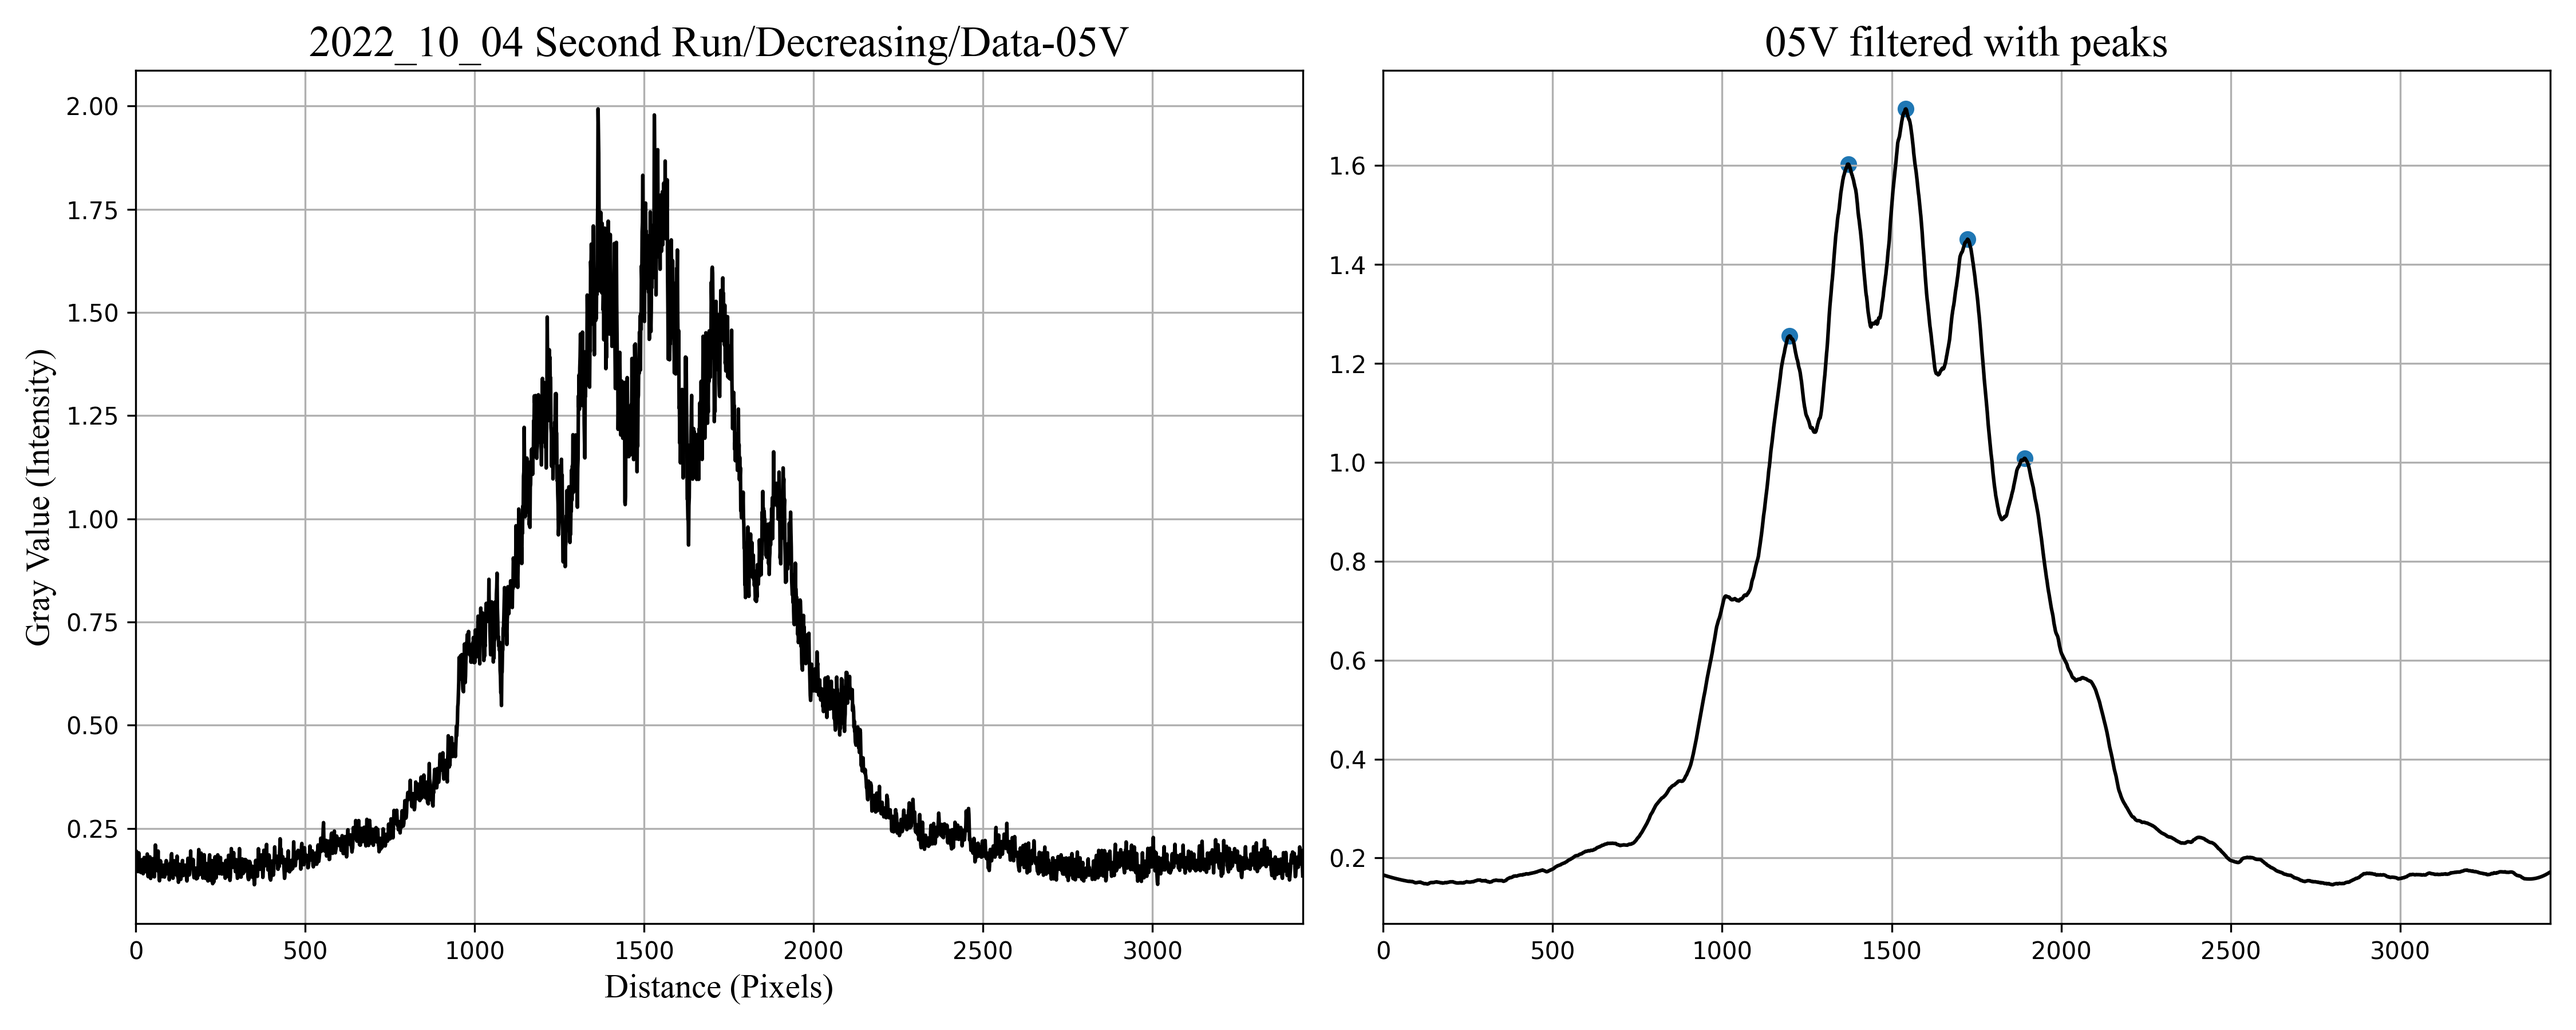
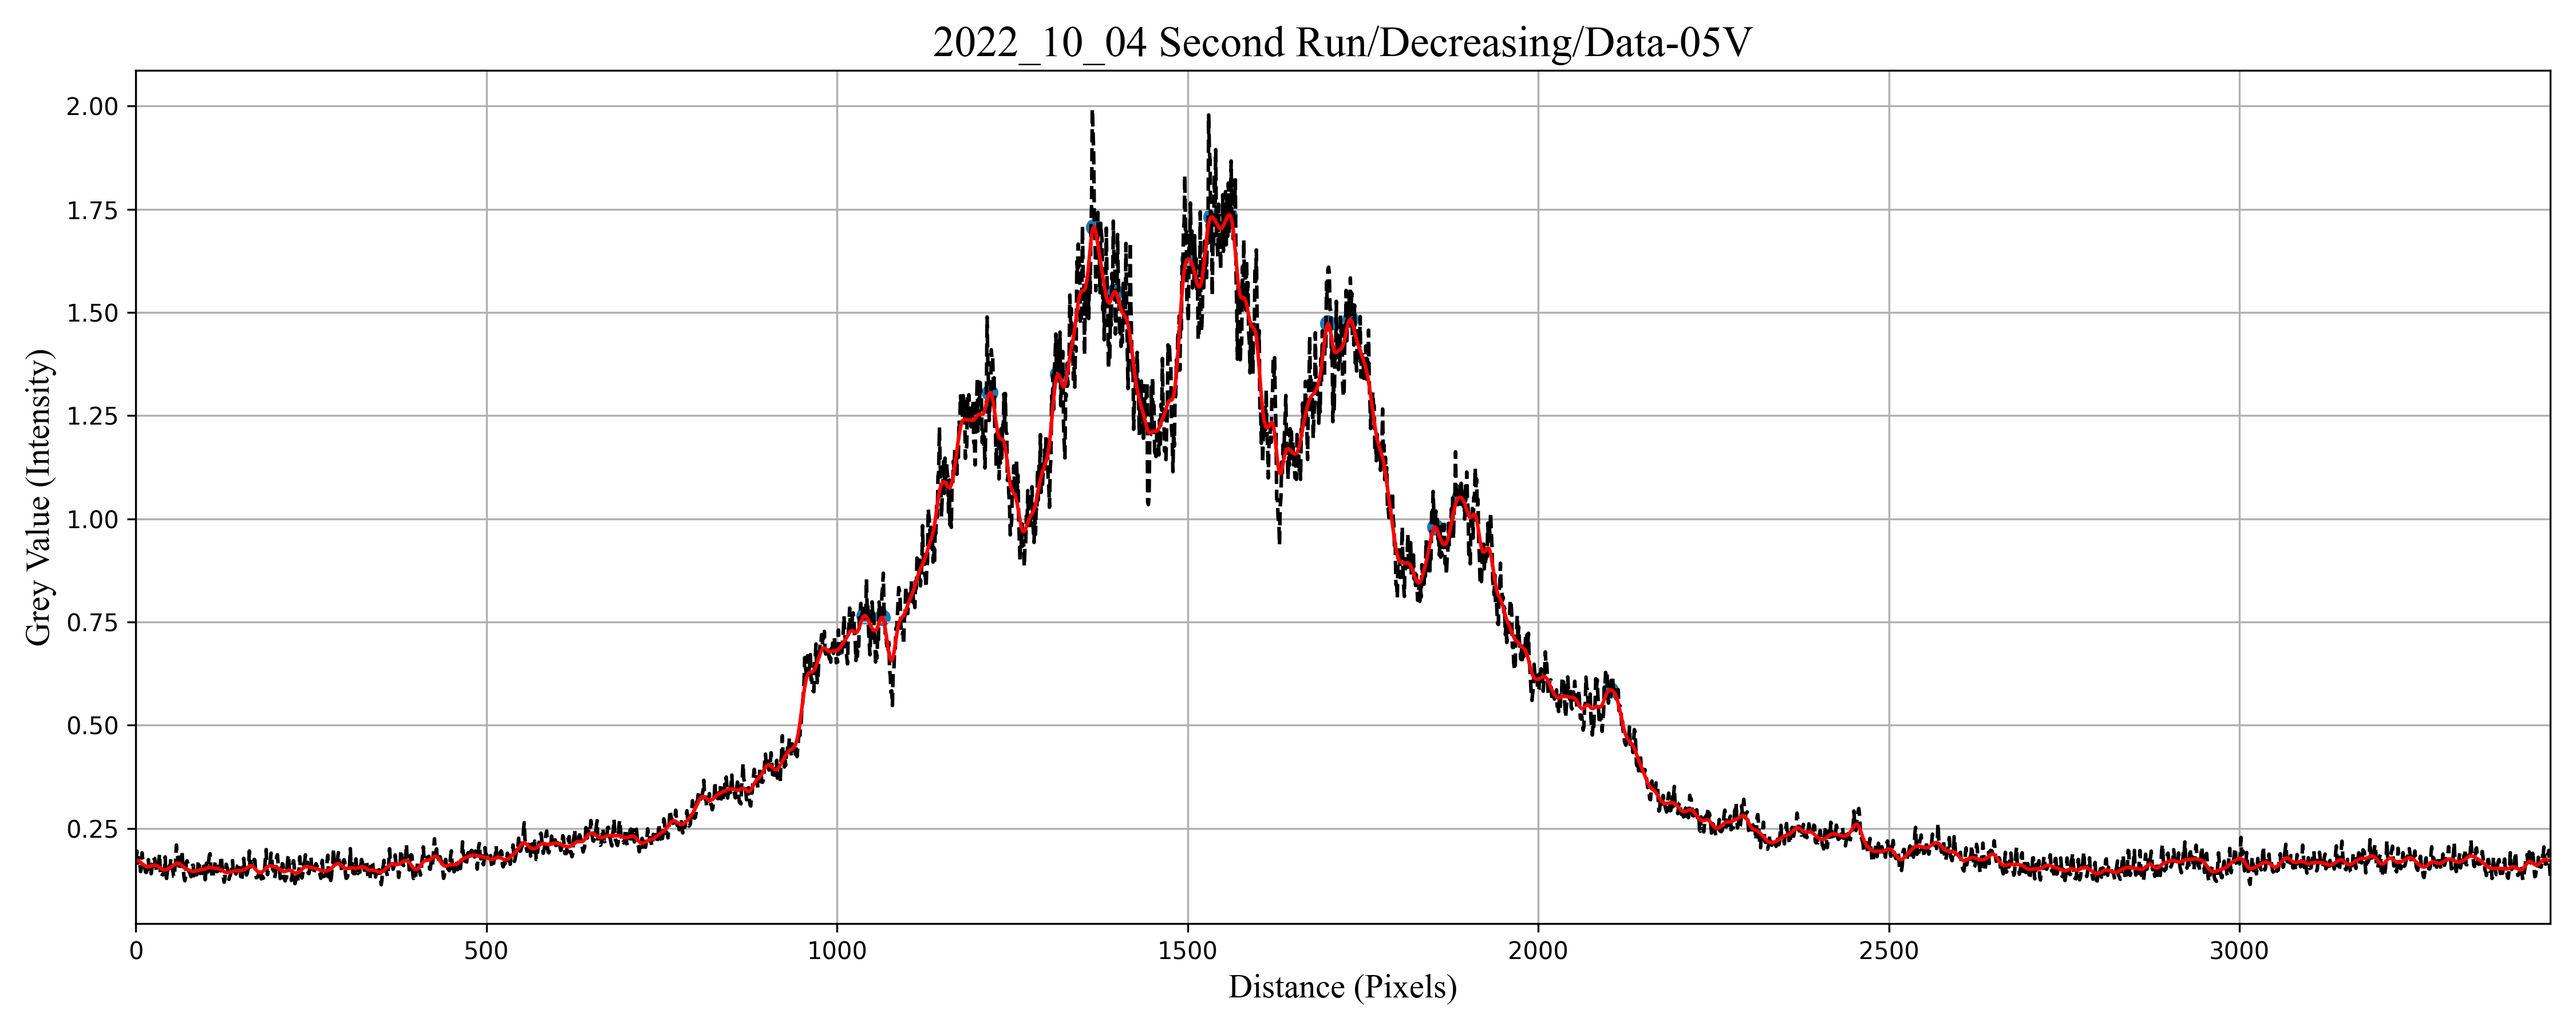
Gaussian Convolution

diff --git a/TVHolography.py b/TVHolography.py
@@ -24,22 +24,22 @@ Y_VARIABLE = 'Grey Value (Intensity)'
 
 def draw_plot(title, data, savgol_parameter, filename,
               save_folder, peak_prominence):
-    fig, axs = plt.subplots(1, 2)
+    fig, axs = plt.subplots(1, 1)
     fig.set_size_inches(15, 6)
 
-    axs[0].set_xlabel("Distance (Pixels)", fontsize=14,
+    axs.set_xlabel("Distance (Pixels)", fontsize=14,
                       fontfamily='times new roman')
-    axs[0].set_ylabel(Y_VARIABLE, fontsize=14, fontfamily='times new roman')
-    axs[0].set_title(filename[: -1] + "-" + title + "V", fontsize=18,
+    axs.set_ylabel(Y_VARIABLE, fontsize=14, fontfamily='times new roman')
+    axs.set_title(filename[: -1] + "-" + title + "V", fontsize=18,
                      fontfamily='times new roman')
-    axs[1].set_title(title + 'V filtered with peaks', fontsize=18,
-                     fontfamily='times new roman')
+    # axs[1].set_title(title + 'V filtered with peaks', fontsize=18,
+    #                  fontfamily='times new roman')
 
-    axs[0].plot(data[:, 0], data[:, 1], 'k')
-    peaks, w = find_peaks(data, savgol_parameter, peak_prominence)
-    filtered_peaks = filter_peaks(peaks, w)
-    axs[1].plot(data[:, 0], w, 'k')
-    axs[1].scatter(filtered_peaks, w[filtered_peaks])
+    axs.plot(data[:, 0], data[:, 1], 'k--')
+    peaks, filtered_data = find_peaks(data, savgol_parameter, peak_prominence)
+    filtered_peaks = filter_peaks(peaks, filtered_data)
+    axs.plot(data[:, 0], filtered_data, 'r')
+    axs.scatter(filtered_peaks, filtered_data[filtered_peaks])
 
     peak_diff = np.diff(filtered_peaks)
 
@@ -47,14 +47,14 @@ def draw_plot(title, data, savgol_parameter, filename,
     # print(np.average(peak_diff))
     # print(np.std(peak_diff) / np.sqrt(len(peak_diff)))
 
-    axs[0].grid()
-    axs[1].grid()
+    axs.grid()
+    # axs[1].grid()
 
-    axs[0].set_xlim((np.min(data[:, 0]), np.max(data[:, 0])))
-    axs[1].set_xlim((np.min(data[:, 0]), np.max(data[:, 0])))
+    axs.set_xlim((np.min(data[:, 0]), np.max(data[:, 0])))
+    # axs[1].set_xlim((np.min(data[:, 0]), np.max(data[:, 0])))
 
     plt.tight_layout()
-    # plt.savefig(save_folder + title, dpi=300, transparent=False)
+    plt.savefig(save_folder + title, dpi=300, transparent=False)
     plt.close()
 
     return np.array((int(title), 1 / np.average(peak_diff),

diff --git a/Functions.py b/Functions.py
@@ -3,6 +3,9 @@ import glob
 from scipy.optimize import curve_fit
 from scipy.signal import savgol_filter
 from scipy.signal import find_peaks as fp
+from scipy.ndimage import gaussian_filter
+
+FILTER_TYPE = 0 # 0 = gaussian convolution, 1 = savgol filter
 
 
 def read_data(file_name):
@@ -33,9 +36,12 @@ def read_data(file_name):
 
 
 def find_peaks(data, savgol_parameter, peak_prominence):
-    w = savgol_filter(data[:, 1], savgol_parameter, 2)
-    peaks, _ = fp(w, prominence=peak_prominence)
-    return peaks, w
+    if FILTER_TYPE==0:
+        filtered_data=gaussian_smooth_filter(data[:, 1], sigma=5)
+    elif FILTER_TYPE==1:
+        filtered_data = savgol_filter(data[:, 1], savgol_parameter, 2)
+    peaks, _ = fp(filtered_data, prominence=peak_prominence)
+    return peaks, filtered_data
 
 
 def filter_peaks(peaks, values):
@@ -58,3 +64,7 @@ def find_linear_parameters(data):
 
     return expected[0], expected[1],\
            np.sqrt(uncertainty[0, 0]), np.sqrt(uncertainty[1, 1])
+
+
+def gaussian_smooth_filter(y_data, sigma):
+    return gaussian_filter(y_data, sigma)
